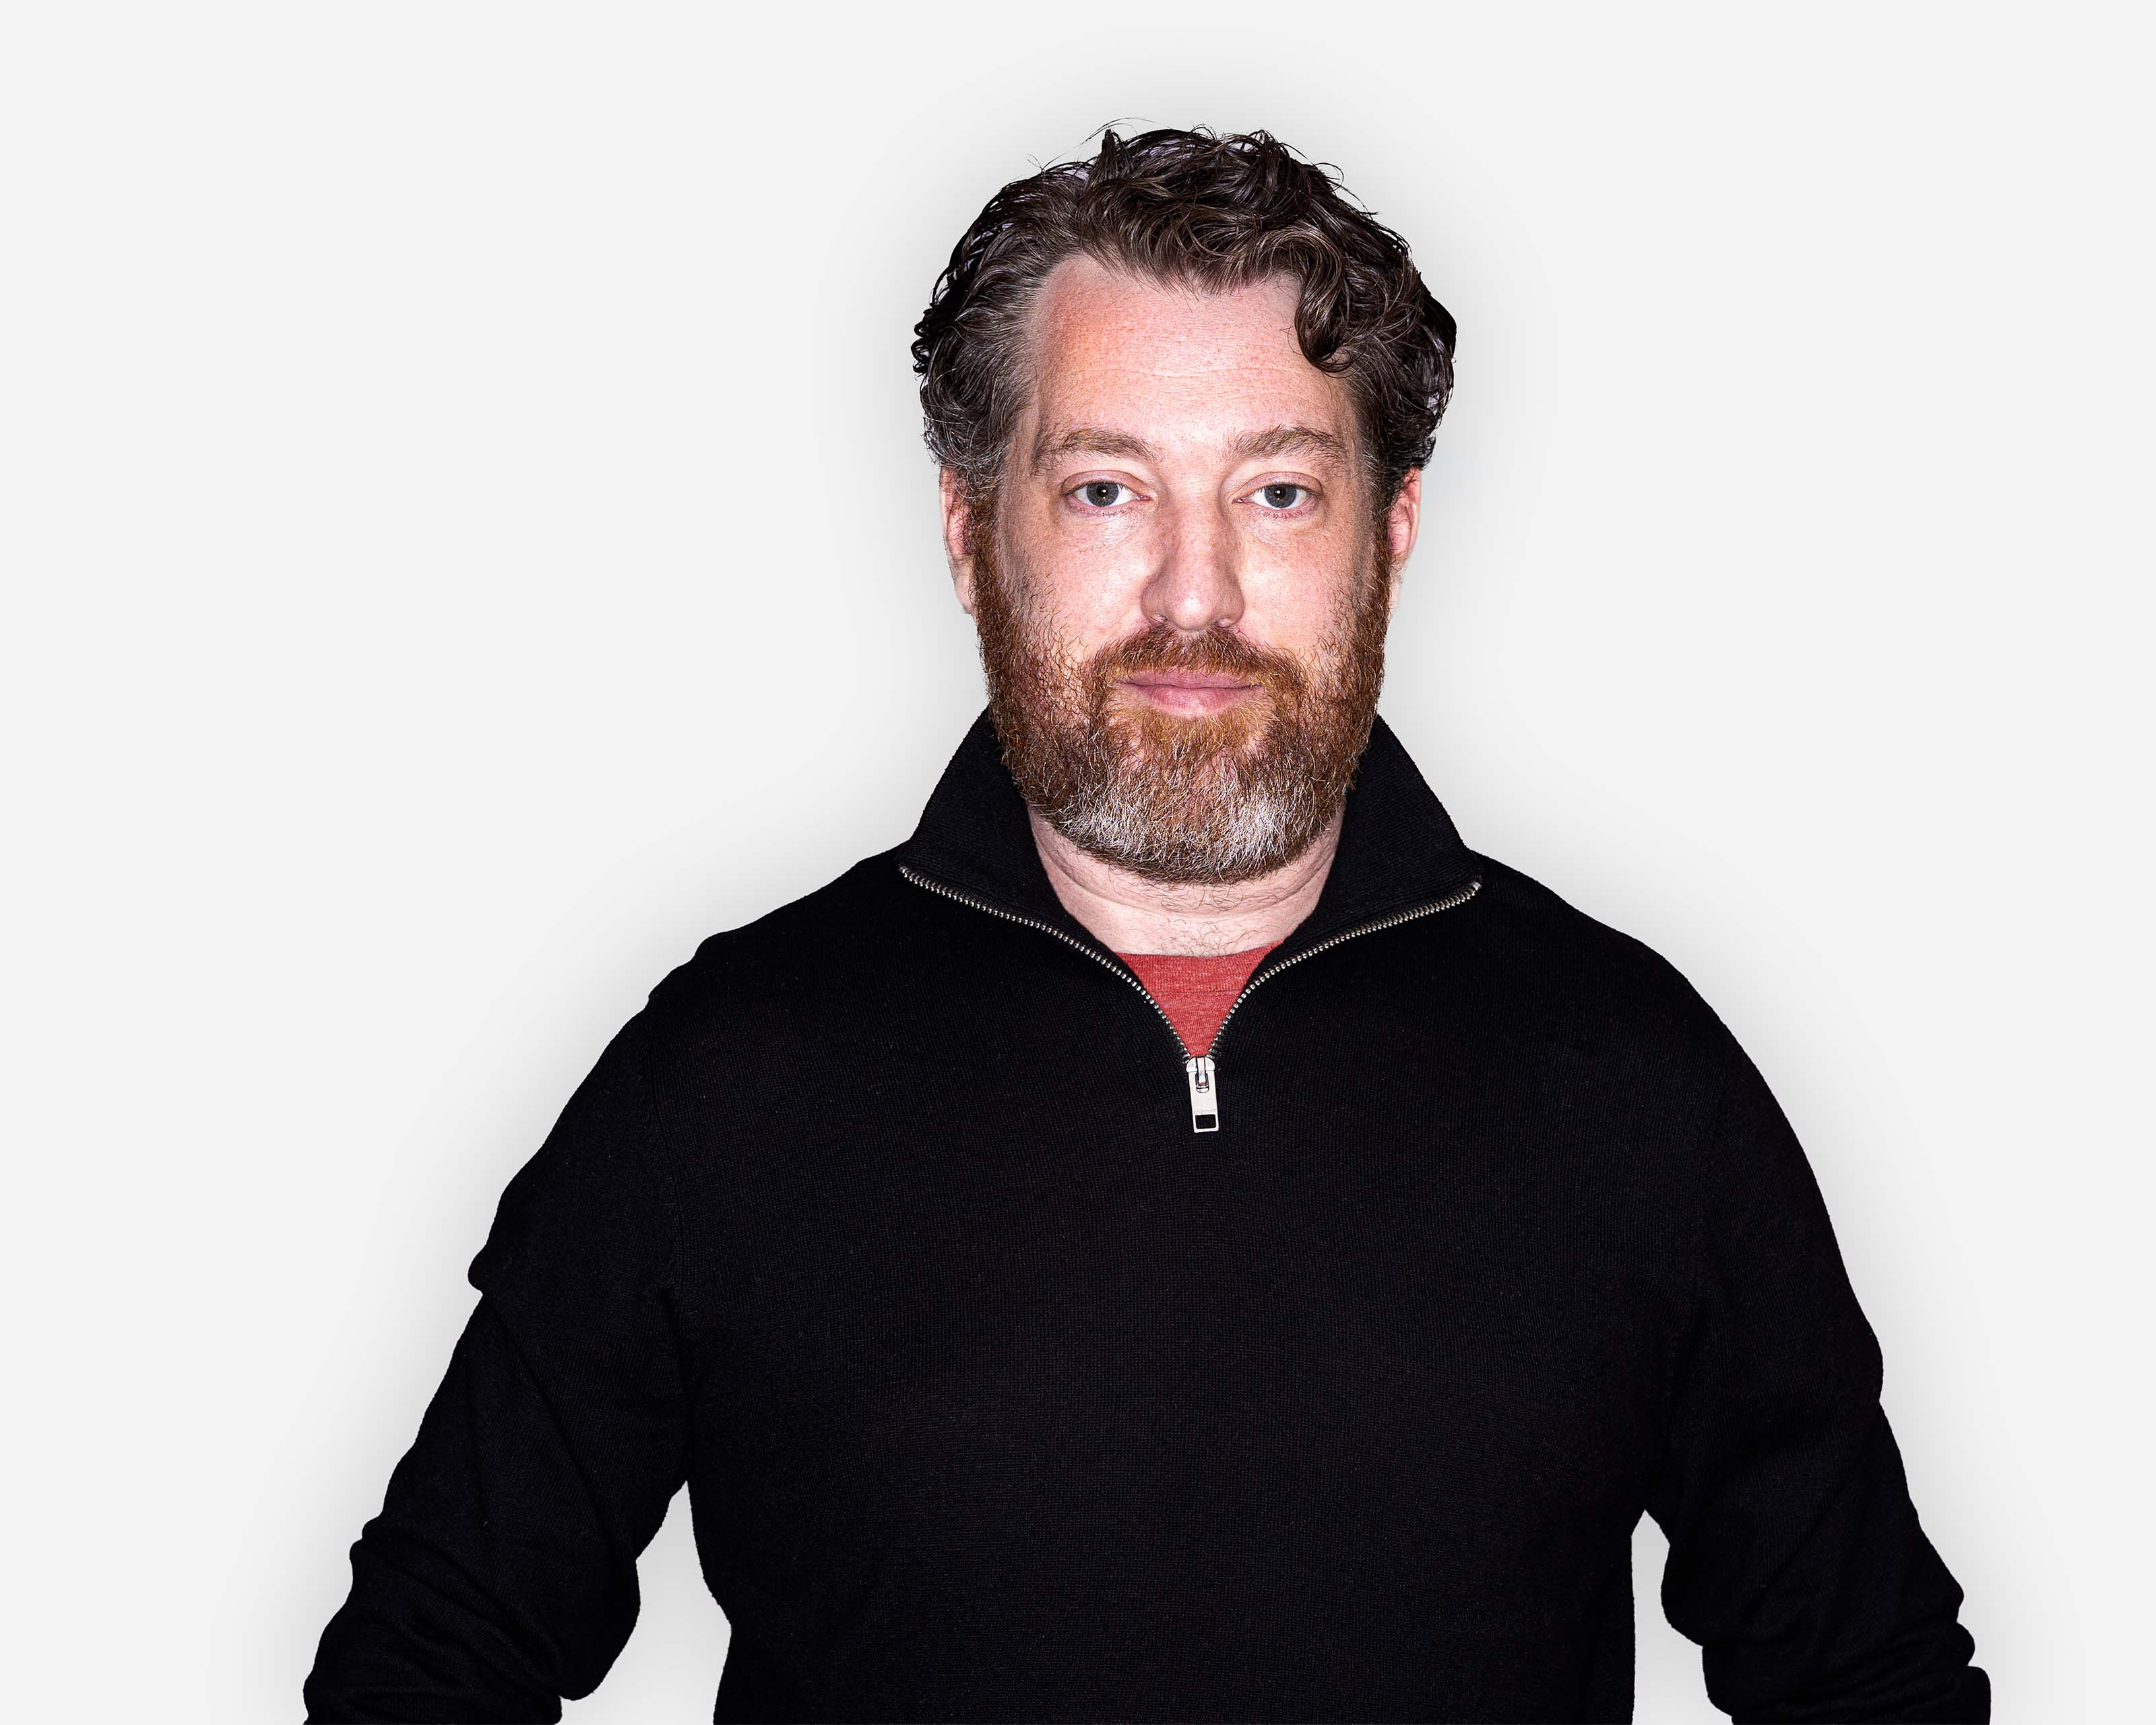
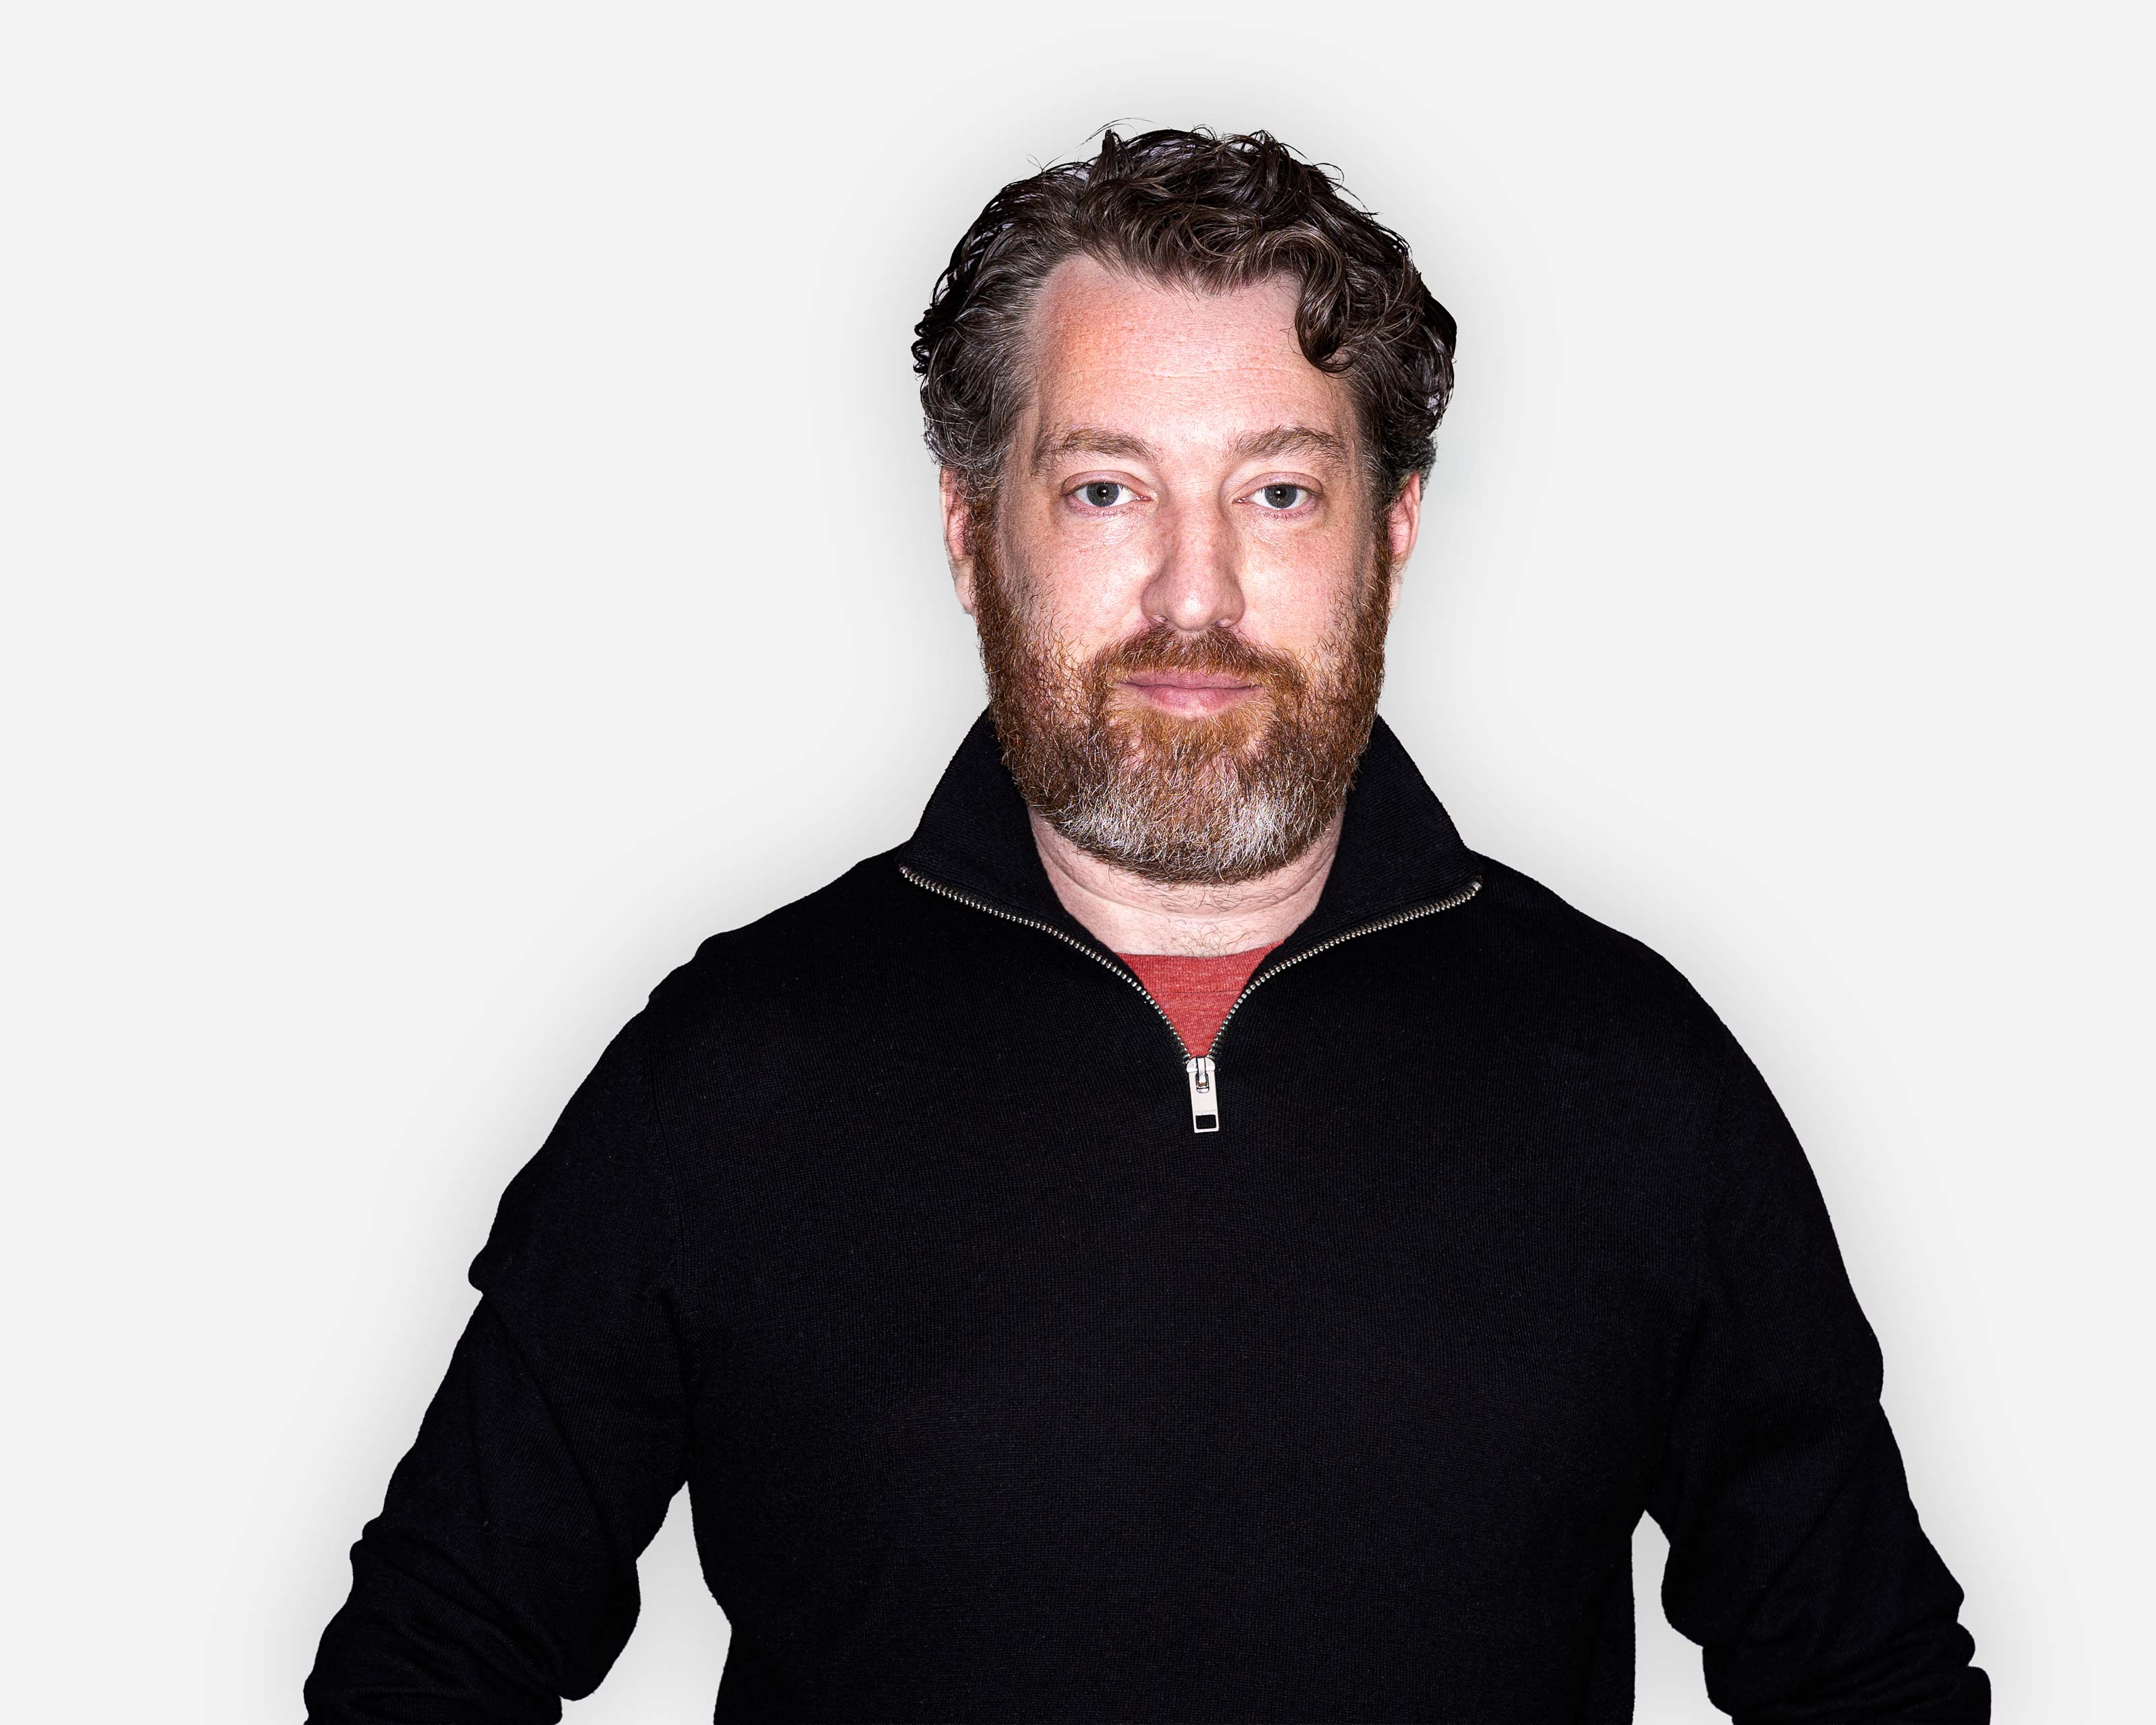
Polish nav, color tokens, and About chapter titles.
Refine sidebar main/sub behavior (accent keywords, muted-accent chapter pills,
outline hover, section-only exploration fade). Strengthen global muted and
accent palette, sync prototype heat color, drop slash prefixes from About
chapters, and refresh hero portraits.

diff --git a/components/SidebarNav.tsx b/components/SidebarNav.tsx
@@ -4,7 +4,9 @@
 // - Main nav sentence travels from above email up to top, locks at threshold
 // - Divider blurs in when last chapter item of first section appears
 // - Sub nav blurs in at viewport center after nav locks, chapters stagger in
-// - All keywords start lit, dim to 20% once nav is stuck (active stays full)
+// - All keywords start lit, dim to ~22% once nav is stuck (active stays full until exploration hover)
+// - Hovering another section fades the active keyword; subnav chapter hover does not dim main
+// - Subnav: selected = muted-accent fill; any hover = muted-accent outline ring (selected never dimmed)
 // - Email pill is fixed at bottom
 
 'use client'
@@ -18,13 +20,37 @@ const FONT_AHG  = 'var(--font-ahg)'
 const FONT_MONO = 'var(--font-mono)'
 
 // ── CONSTANTS ─────────────────────────────────────────────────────────────────
-const ACCENT          = '#F2411B'
+const ACCENT      = 'var(--color-accent)'
+const NAV_FADED   = 'var(--color-nav-faded-selection)'
+const NAV_PILL_1  = 'var(--color-nav-pill-muted-accent-1)'
+const NAV_OUTLINE = 'var(--color-nav-pill-outline)'
 const STAGGER_MS      = 60
 const TRANSITION_MS   = 320
 const SUBNAV_DELAY_MS = 280
 const BLUR_PX         = 6
 const NAV_TOP_PX      = 40
 const EMAIL_BOTTOM_PX = 40
+
+/** Main nav section keywords: orange + opacity dimming when stuck. */
+function navKeywordStyle(opts: {
+  dimActive: boolean
+  isActive: boolean
+  isHoverThis: boolean
+  selectionExploringElsewhere: boolean
+}): { color: string; opacity: number } {
+  const { dimActive, isActive, isHoverThis, selectionExploringElsewhere } = opts
+  if (!dimActive) return { color: ACCENT, opacity: 1 }
+  if (isActive) {
+    return {
+      color: selectionExploringElsewhere ? NAV_FADED : ACCENT,
+      opacity: 1,
+    }
+  }
+  return {
+    color: ACCENT,
+    opacity: isHoverThis ? 1 : 0.22,
+  }
+}
 
 // ── DARK MODE ─────────────────────────────────────────────────────────────────
 function useDarkMode() {
@@ -111,9 +137,8 @@ function pickActiveSpyTarget(): { chapterId: string | null; sectionId: string | 
 export function SidebarNav() {
   const dark = useDarkMode()
   const C = {
-    ink:        dark ? '#f0eeea'                : '#0d0d0d',
-    divider:    dark ? 'rgba(255,255,255,0.1)'  : 'rgba(0,0,0,0.1)',
-    chapterDim: dark ? 'rgba(242,65,27,0.3)'   : 'rgba(242,65,27,0.25)',
+    ink:     dark ? '#f0eeea' : '#0d0d0d',
+    divider: 'var(--color-rule)',
   }
 
   const [navIsStuck,          setNavIsStuck]          = useState(false)
@@ -123,6 +148,14 @@ export function SidebarNav() {
   const [activeSection,       setActiveSection]       = useState<string | null>(null)
   const [activeChapter,       setActiveChapter]       = useState<string | null>(null)
   const [dimActive,           setDimActive]           = useState(false)
+  const [hoverSectionId, setHoverSectionId] = useState<string | null>(null)
+  const [hoverChapterId, setHoverChapterId] = useState<string | null>(null)
+
+  /** Fade main keywords only when hovering a different section (subnav hover does not dim main). */
+  const fadeMainNavSelection =
+    hoverSectionId != null &&
+    activeSection != null &&
+    hoverSectionId !== activeSection
 
   const staggerTimers = useRef<ReturnType<typeof setTimeout>[]>([])
   const subNavTimer   = useRef<ReturnType<typeof setTimeout> | null>(null)
@@ -380,13 +413,32 @@ export function SidebarNav() {
             {NAV_SECTIONS.map((sec, i) => {
               const isActive  = activeSection === sec.id
               const connector = i === NAV_SECTIONS.length - 2 ? ', and ' : i < NAV_SECTIONS.length - 1 ? ', ' : '.'
+              const isHoverThis = hoverSectionId === sec.id
+              const { color: mainColor, opacity: mainOpacity } = navKeywordStyle({
+                dimActive,
+                isActive,
+                isHoverThis,
+                selectionExploringElsewhere: fadeMainNavSelection,
+              })
               return (
-                <span key={sec.id}>
-                  <span onClick={() => scrollToSection(sec.id)} style={{
-                    color: ACCENT, cursor: 'pointer',
-                    opacity: dimActive && !isActive ? 0.2 : 1,
-                    transition: 'opacity 400ms ease', display: 'inline',
-                  }}>
+                  <span key={sec.id}>
+                  <span
+                    onClick={() => scrollToSection(sec.id)}
+                    style={{
+                      color: mainColor,
+                      cursor: 'pointer',
+                      opacity: mainOpacity,
+                      transition: 'opacity 220ms ease, color 200ms ease',
+                      display: 'inline',
+                    }}
+                    onMouseEnter={() => {
+                      setHoverSectionId(sec.id)
+                      setHoverChapterId(null)
+                    }}
+                    onMouseLeave={() => {
+                      setHoverSectionId((prev) => (prev === sec.id ? null : prev))
+                    }}
+                  >
                     {sec.label}
                   </span>
                   {connector}
@@ -414,7 +466,8 @@ export function SidebarNav() {
       <div aria-label="Chapter navigation" style={{
         position: 'fixed', left: 40, top: '50vh',
         transform: 'translateY(-50%)',
-        display: 'flex', flexDirection: 'column', gap: 4,
+        display: 'flex', flexDirection: 'column', gap: 6,
+        width: 'min(300px, calc(var(--sidebar-width) - 80px))',
         zIndex: 101,
         pointerEvents: subNavVisible ? 'auto' : 'none',
       }}>
@@ -422,25 +475,49 @@ export function SidebarNav() {
           const chId      = toChapterId(currentSection.id, chapter.id)
           const isActive  = activeChapter === chId
           const isVisible = subNavVisible && chapterItemsVisible.includes(i)
+          const isHoverThis = hoverChapterId === chId
+          const chapterFill = isActive ? NAV_PILL_1 : 'transparent'
+          const chapterRing = isHoverThis ? `0 0 0 1px ${NAV_OUTLINE}` : 'none'
           return (
             <span key={chapter.id} onClick={() => scrollToChapter(chId)}
               aria-current={isActive ? 'true' : undefined}
               style={{
-                display: 'block', fontFamily: FONT_MONO, fontWeight: 700,
-                fontSize: 11, letterSpacing: '0.07em', textTransform: 'uppercase',
-                lineHeight: 1.6, padding: '2px 0',
-                color: isActive ? ACCENT : C.chapterDim,
-                cursor: 'pointer', userSelect: 'none',
+                display: 'inline-flex',
+                alignSelf: 'flex-start',
+                alignItems: 'center',
+                cursor: 'pointer',
+                userSelect: 'none',
                 opacity: isVisible ? 1 : 0,
                 filter: isVisible ? 'blur(0)' : `blur(${BLUR_PX}px)`,
                 transform: isVisible ? 'translateY(0)' : 'translateY(4px)',
-                transition: `opacity ${TRANSITION_MS}ms ease ${i * 20}ms, filter ${TRANSITION_MS}ms ease ${i * 20}ms, transform ${TRANSITION_MS}ms ease ${i * 20}ms, color ${TRANSITION_MS}ms ease`,
+                transition: `opacity ${TRANSITION_MS}ms ease ${i * 20}ms, filter ${TRANSITION_MS}ms ease ${i * 20}ms, transform ${TRANSITION_MS}ms ease ${i * 20}ms, background 180ms ease, box-shadow 180ms ease`,
                 pointerEvents: isVisible ? 'auto' : 'none',
+                borderRadius: 9999,
+                padding: '5px 14px',
+                background: chapterFill,
+                boxShadow: chapterRing,
               }}
-              onMouseEnter={(e) => { if (!isActive) (e.currentTarget as HTMLElement).style.opacity = '0.6' }}
-              onMouseLeave={(e) => { if (!isActive) (e.currentTarget as HTMLElement).style.opacity = '1' }}
+              onMouseEnter={() => {
+                setHoverChapterId(chId)
+                setHoverSectionId(null)
+              }}
+              onMouseLeave={() => {
+                setHoverChapterId((prev) => (prev === chId ? null : prev))
+              }}
             >
-              {chapter.label}
+              <span
+                style={{
+                  fontFamily: FONT_MONO,
+                  fontWeight: 700,
+                  fontSize: 11,
+                  letterSpacing: '0.07em',
+                  textTransform: 'uppercase',
+                  lineHeight: 1.5,
+                  color: ACCENT,
+                }}
+              >
+                {chapter.label}
+              </span>
             </span>
           )
         })}

diff --git a/styles/globals.css b/styles/globals.css
@@ -27,10 +27,19 @@
   :root {
     --color-ink:        #0d0d0d;
     --color-paper:      #f0f0f0;
-    --color-accent:     #F2411B;
+    /* Base accent: slightly darker than legacy #F2411B for better contrast (incl. white UI text on pill). */
+    --color-accent:     #DE3E18;
+    /* Links / nav hovers: darker still for ~AA against paper and clear focus/hover signal. */
+    --color-accent-hover: #B73412;
     --color-rule:       rgba(0, 0, 0, 0.1);
-    --color-muted:      rgba(13, 13, 13, 0.45);
-    --color-chapter-dim: rgba(242, 65, 27, 0.25);
+    /* ~4.5:1 vs paper for 14px body (was 0.45 alpha — too light). */
+    --color-muted:      rgba(13, 13, 13, 0.72);
+    /* Nav “de-selected while exploring” — same hue as accent, not grey. */
+    --color-nav-faded-selection: rgba(222, 62, 24, 0.4);
+    --color-accent-nav-hover:    #5a2410;
+    /* Subnav: selected row fill; hover = 1px muted-accent ring (no fill on hover-only). */
+    --color-nav-pill-muted-accent-1: rgba(222, 62, 24, 0.12);
+    --color-nav-pill-outline:        rgba(222, 62, 24, 0.42);
     --sidebar-width:    400px;
     --gutter:           72px;
     /* Horizontal inset for main column: rules and blocks don’t hug viewport or sidebar */
@@ -44,9 +53,13 @@
     :root {
       --color-ink:        #f0eeea;
       --color-paper:      #101010;
-      --color-rule:       rgba(255, 255, 255, 0.1);
-      --color-muted:      rgba(240, 238, 234, 0.45);
-      --color-chapter-dim: rgba(242, 65, 27, 0.3);
+      --color-rule:       rgba(255, 255, 255, 0.12);
+      /* Stronger than 0.45 — readable cream on near-black */
+      --color-muted:      rgba(240, 238, 234, 0.78);
+      --color-accent-nav-hover:    #ff9a7a;
+      --color-nav-faded-selection: rgba(222, 62, 24, 0.45);
+      --color-nav-pill-muted-accent-1: rgba(222, 62, 24, 0.16);
+      --color-nav-pill-outline:        rgba(222, 62, 24, 0.48);
     }
   }
 
@@ -203,7 +216,7 @@
 }
 
 .contact-liquid__btn:hover {
-  background: rgba(0, 0, 0, 0.14);
+  background: rgba(0, 0, 0, 0.26);
 }
 
 .contact-liquid__btn:focus-visible {
@@ -291,7 +304,7 @@
   gap: 12px;
   padding: 40px;
   box-sizing: border-box;
-  background: #f2411b;
+  background: var(--color-accent);
   color: #fff;
   text-align: center;
 }
@@ -346,7 +359,7 @@
 
 .not-found-page__link:hover {
   background: #fff;
-  color: #f2411b;
+  color: var(--color-accent-hover);
 }
 
 .not-found-page__link:focus-visible {

diff --git a/components/Chapter.tsx b/components/Chapter.tsx
@@ -48,16 +48,18 @@ export function Chapter({ chapter, sectionId, index, isLast }: Props) {
         }}>
           {num}
         </span>
-        <h3 style={{
-          fontFamily: 'var(--font-ahg)',
-          fontWeight: 700,
-          fontSize: 'clamp(22px, 2vw, 32px)',
-          lineHeight: 1.1,
-          letterSpacing: '-0.01em',
-          textTransform: 'uppercase',
-          color: 'var(--color-ink)',
-          margin: 0,
-        }}>
+        <h3
+          style={{
+            fontFamily: 'var(--font-ahg)',
+            fontWeight: 700,
+            fontSize: 'clamp(22px, 2vw, 32px)',
+            lineHeight: 1.1,
+            letterSpacing: '-0.01em',
+            textTransform: 'uppercase',
+            color: 'var(--color-ink)',
+            margin: 0,
+          }}
+        >
           {chapter.title}
         </h3>
       </div>

diff --git a/tailwind.config.js b/tailwind.config.js
@@ -8,11 +8,12 @@ module.exports = {
   theme: {
     extend: {
       colors: {
-        accent:  '#F2411B',
-        ink:     '#0d0d0d',
-        paper:   '#f9f8f6',
-        muted:   'rgba(13,13,13,0.45)',
-        rule:    'rgba(0,0,0,0.1)',
+        accent: '#DE3E18',
+        'accent-hover': '#B73412',
+        ink: '#0d0d0d',
+        paper: '#f0f0f0',
+        muted: 'rgba(13,13,13,0.72)',
+        rule: 'rgba(0,0,0,0.1)',
       },
       fontFamily: {
         ahg:  ['var(--font-ahg)', 'sans-serif'],

diff --git a/lib/sections/everything-else.ts b/lib/sections/everything-else.ts
@@ -21,7 +21,7 @@ [email redacted]`,
   chapters: [
     {
       id: 'who',
-      title: '/ Who I am',
+      title: 'Who I am',
       subtitle: 'Brand-trained, product-tempered.',
       body: `I'm a Principal Product Designer with a background in brand design that never really went away. I started in brand, identity, packaging, print — and carried those instincts into product design when I made the switch. The through-line is the same: every touchpoint is part of the experience, whether it's the app, the device, the packaging it shipped in, or the email a support agent sends when something goes wrong.
 
@@ -33,7 +33,7 @@ I now design primarily at the intersection of hardware and software — thermost
     },
     {
       id: 'thinking',
-      title: '/ How I think about design',
+      title: 'How I think about design',
       subtitle: 'Form, function, and foolproofing.',
       body: `"A common mistake that people make when trying to design something completely foolproof is to underestimate the ingenuity of complete fools." — Douglas Adams
 
@@ -49,7 +49,7 @@ I also believe UX extends well beyond the product itself. The way a company pric
     },
     {
       id: 'principles',
-      title: '/ What I believe',
+      title: 'What I believe',
       subtitle: 'Four working principles.',
       body: `01 — If it's worth buying, it sells itself.
 Good products don't need tricks. They need to work.
@@ -69,7 +69,7 @@ Change isn't the problem. Disorienting change is.`,
     },
     {
       id: 'background',
-      title: '/ Background',
+      title: 'Background',
       subtitle: 'How I got here.',
       body: `I came up through brand design — identity systems, packaging, print — before moving into product design. That background shows up in how I think about visual communication, typographic hierarchy, and the full lifecycle of a product experience beyond the screen.
 
@@ -85,7 +85,7 @@ I'm based in the St. Louis area.`,
     },
     {
       id: 'in-between',
-      title: '/ Everything in between',
+      title: 'Everything in between',
       subtitle: "The work that doesn't fit in a case study.",
       body: `Not everything worth doing fits a case study format. These are the things I do because they make the work — and the people doing it — better.
 

diff --git a/components/SegmentDisplay.tsx b/components/SegmentDisplay.tsx
@@ -268,7 +268,7 @@ export function SegmentDisplay() {
             <ScreenIcon
               label="HEAT"
               visible={heatCycleActive}
-              color="#F2411B"
+              color="#DE3E18"
             />
           </div>
 
@@ -393,7 +393,7 @@ export function SegmentDisplay() {
           fontSize: 11,
           fontFamily: 'monospace',
           letterSpacing: '0.07em',
-          color: mode==='heat' ? '#F2411B' : mode==='cool' ? '#4A9FD4' : 'rgba(128,128,128,0.6)',
+          color: mode==='heat' ? '#DE3E18' : mode==='cool' ? '#4A9FD4' : 'rgba(128,128,128,0.6)',
           background: 'transparent',
           transition: 'border-color 200ms, color 200ms',
         }}>
@@ -408,7 +408,7 @@ export function SegmentDisplay() {
         {/* Setpoints */}
         <div style={{ display:'flex', gap:16 }}>
           {[
-            { label:'heat', val:heatSP, color:'#F2411B', dimmed: mode==='cool'||mode==='off' },
+            { label:'heat', val:heatSP, color:'#DE3E18', dimmed: mode==='cool'||mode==='off' },
             { label:'cool', val:coolSP, color:'#4A9FD4', dimmed: mode==='heat'||mode==='off' },
           ].map(sp => (
             <div key={sp.label} style={{